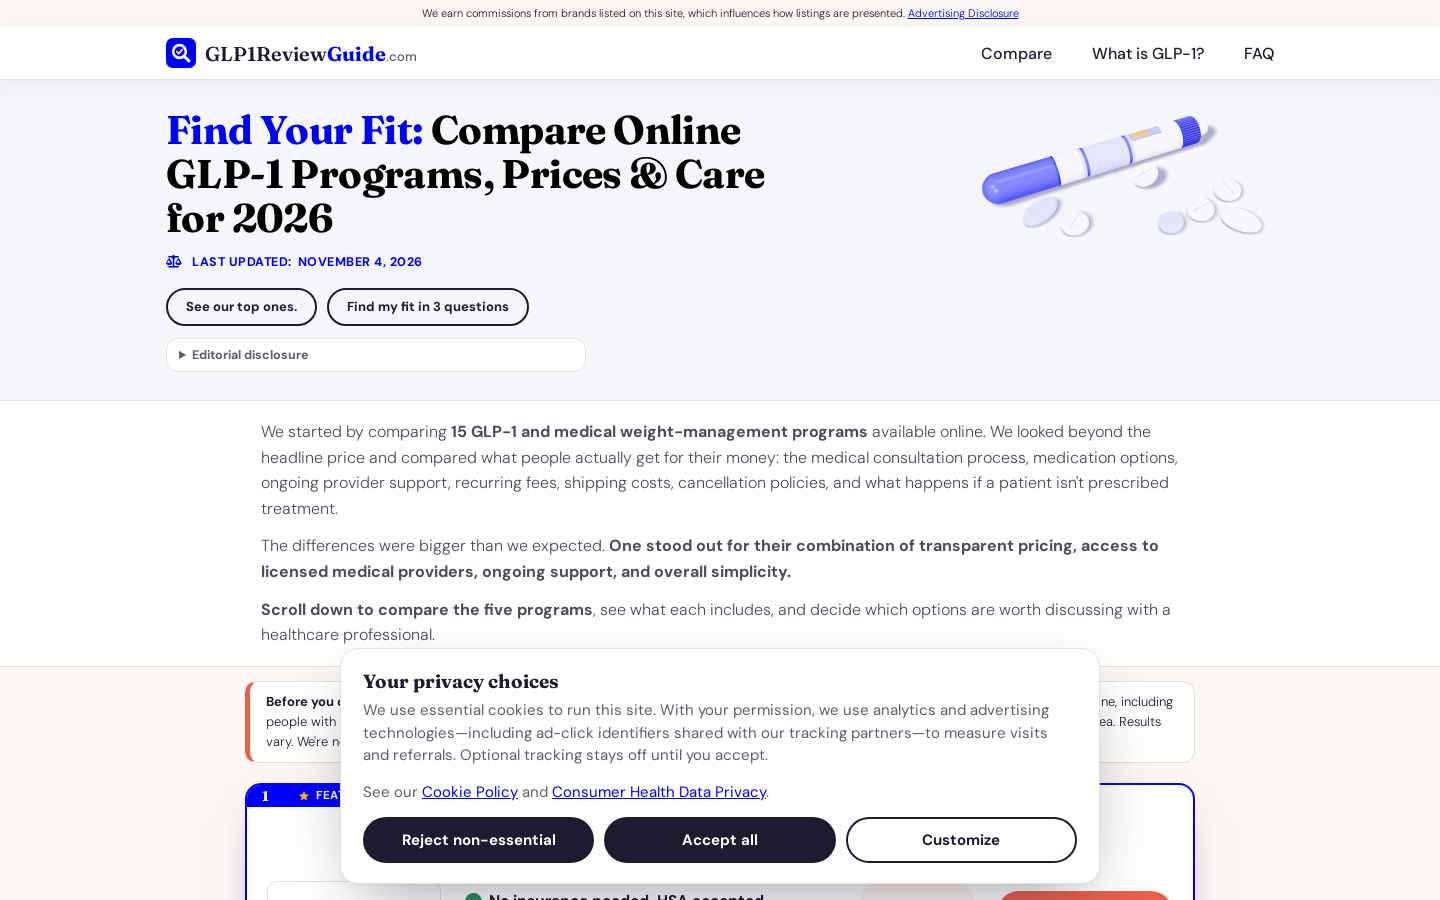
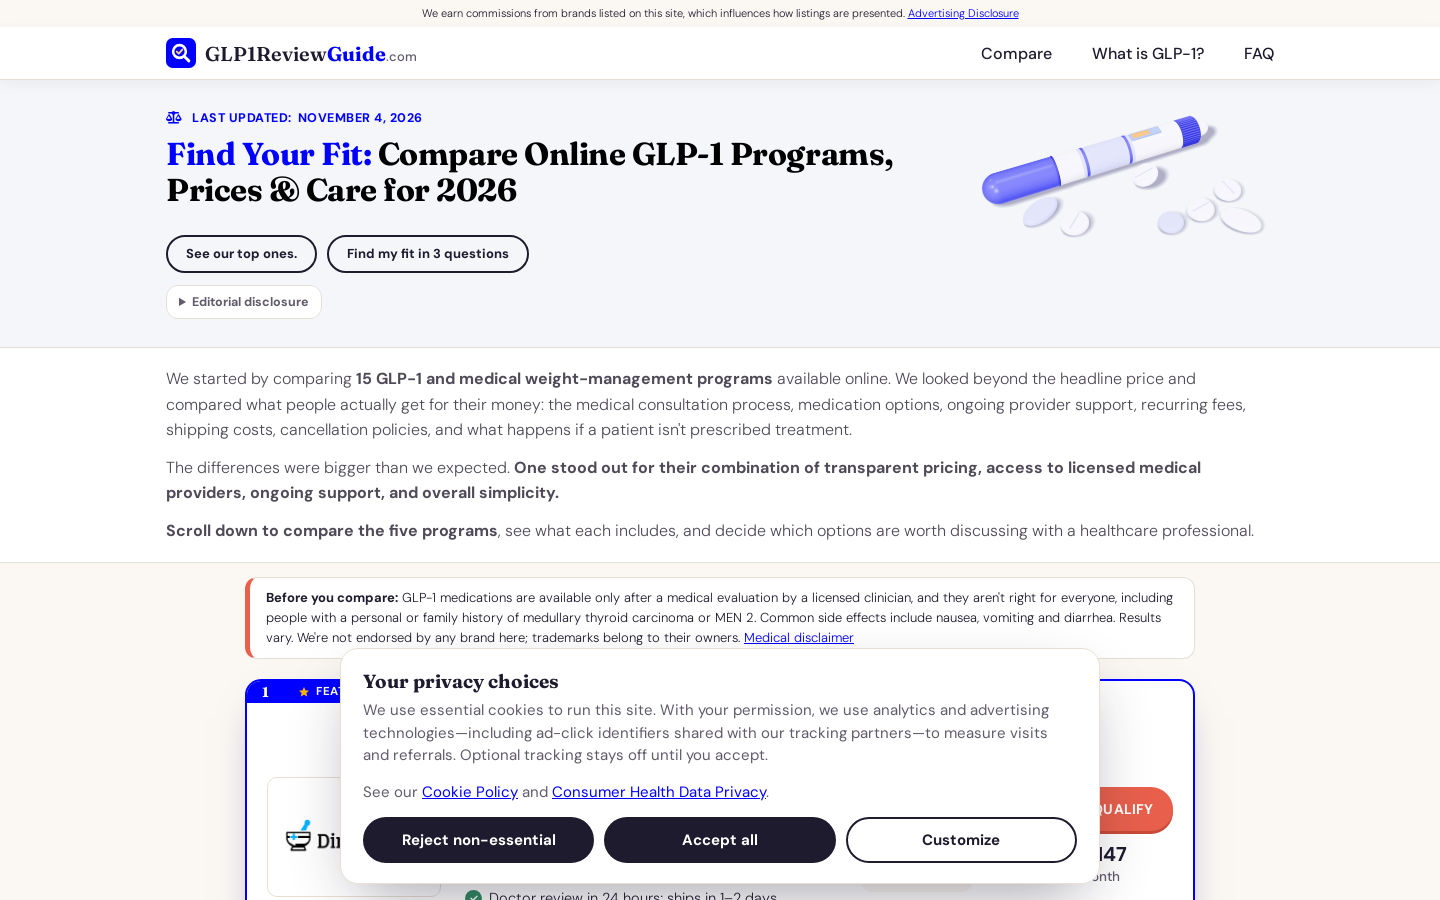
Refine CRMedium-1 desktop layout and intro alignment

diff --git a/templates/crmedium-1.html b/templates/crmedium-1.html
@@ -65,16 +65,18 @@ body.crmed-1{margin:0;background:var(--cream);color:var(--ink);font:300 16px/1.6
 .crmed-1 .hero{position:relative;overflow:hidden;display:flex;align-items:center;background:var(--hero);border-bottom:1px solid var(--line);padding:28px 0}
 .crmed-1 .hero .w{position:relative;z-index:1;width:100%;display:flex;flex-direction:column}
 .crmed-1 .hero .w>*{max-width:min(620px,calc(54vw - 32px))}
-.crmed-1 .hero h1{order:1;font:700 clamp(28px,3.1vw,40px)/1.1 var(--disp);letter-spacing:-.015em;color:#000;margin:0 0 12px}
+.crmed-1 .hero h1{order:1;font:700 clamp(26px,2.2vw,32px)/1.12 var(--disp);letter-spacing:-.015em;color:#000;margin:0 0 12px}
+@media(min-width:768px){.crmed-1 .hero .w>h1{max-width:min(760px,calc(60vw - 32px))}}
 .crmed-1 .hero-title-accent{color:var(--blue)}
 .crmed-1 .hero-title-mobile{display:none}
-.crmed-1 .hero .kicker{order:2;display:inline-flex;align-items:center;gap:6px;margin:0;font-size:12.5px;font-weight:700;letter-spacing:.04em;text-transform:uppercase;color:var(--blue)}
+.crmed-1 .hero .kicker{order:0;display:inline-flex;align-items:center;gap:6px;margin:0 0 8px;font-size:12.5px;font-weight:700;letter-spacing:.04em;text-transform:uppercase;color:var(--blue)}
 .crmed-1 .see-below{display:none}
 .crmed-1 .hero_actions{order:4;display:flex;flex-wrap:wrap;gap:10px;margin-top:16px}
 .crmed-1 .btn_dark,.crmed-1 .btn_line{display:inline-flex;align-items:center;justify-content:center;text-decoration:none;font:700 13px/1.2 var(--body);padding:9px 18px;border-radius:999px;border:2px solid var(--ink);color:var(--ink);background:transparent;cursor:pointer;white-space:nowrap}
 .crmed-1 .btn_dark:hover,.crmed-1 .btn_line:hover{background:#fff}
 .crmed-1 .disc_row{order:5;margin-top:12px}
 .crmed-1 .disc_row details{font-size:14px;background:#fff;border:1px solid var(--line);border-radius:12px;padding:6px 12px;max-width:420px}
+@media(min-width:768px){.crmed-1 .disc_row details{width:fit-content}}
 .crmed-1 .disc_row summary{cursor:pointer;font-size:12.5px;font-weight:700;color:var(--muted)}
 .crmed-1 .disc_row p{margin:6px 0 2px;font-size:13.5px}
 .crmed-1 .hero-img{position:absolute;top:0;right:16px;width:300px;margin:0}
@@ -82,6 +84,7 @@ body.crmed-1{margin:0;background:var(--cream);color:var(--ink);font:300 16px/1.6
 
 /* intro + before-you-compare */
 .crmed-1 .intro{background:#fff;border-bottom:1px solid var(--line);padding:18px 0}
+.crmed-1 .intro .w.narrow{max-width:1140px}
 .crmed-1 .intro .dek p{margin:0 0 12px;font-size:16px;line-height:1.6;color:#4F4A57}
 .crmed-1 .intro .dek p:last-child{margin-bottom:0}
 .crmed-1 .safety-wrap{padding-top:14px}
